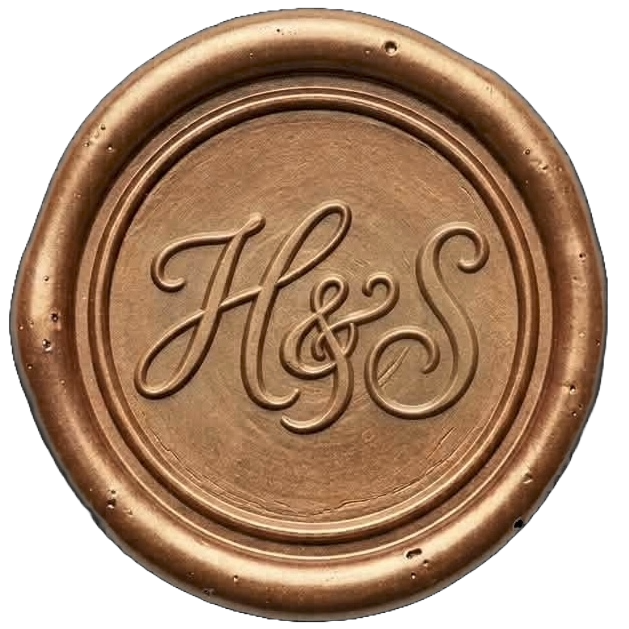
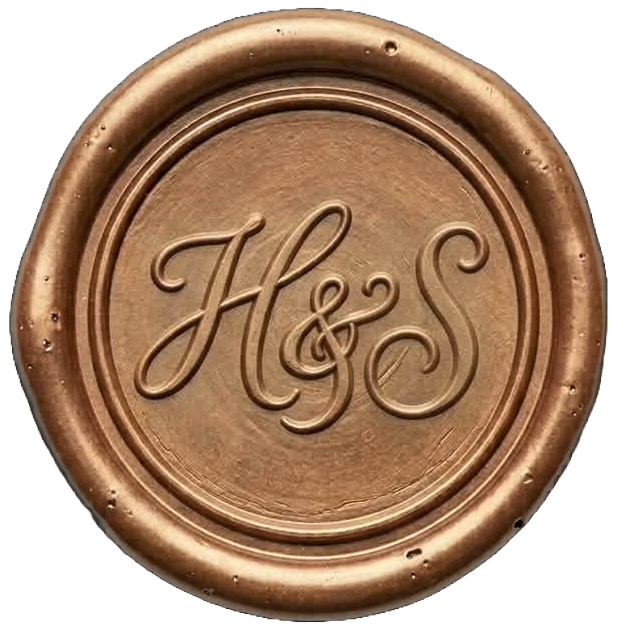
Fix seal flashing its box during slow-network load

diff --git a/src/components/guest/EnvelopeEntry.tsx b/src/components/guest/EnvelopeEntry.tsx
@@ -1,5 +1,6 @@
 "use client";
 
+import { useEffect, useRef, useState } from "react";
 import Image from "next/image";
 import { motion } from "framer-motion";
 
@@ -77,6 +78,16 @@ function PaperTexture({
 }
 
 function WaxSeal({ isOpen }: { isOpen: boolean }) {
+  // On slow networks a partially-downloaded seal can paint before its alpha
+  // channel decodes, flashing a square around the wax. Hold it invisible
+  // until fully loaded, then stamp it in. The ref guard covers cached loads
+  // that complete before hydration (onLoad would never fire).
+  const [ready, setReady] = useState(false);
+  const imgRef = useRef<HTMLImageElement>(null);
+  useEffect(() => {
+    if (imgRef.current?.complete) setReady(true);
+  }, []);
+
   return (
     <div className="absolute left-1/2 top-1/2 z-[4] -translate-x-1/2 -translate-y-1/2">
       <motion.div
@@ -87,41 +98,47 @@ function WaxSeal({ isOpen }: { isOpen: boolean }) {
         whileTap={isOpen ? undefined : { scale: 0.96 }}
         className="relative h-32 w-32 md:h-36 md:w-36"
       >
-        <Image
-          src="/rsvp-seal.png"
-          alt=""
-          fill
-          preload
-          sizes="144px"
-          // pointer-events-none: taps land on the button container, and iOS
-          // can't open its long-press "Save Image" sheet mid-tap
-          className="pointer-events-none select-none object-contain"
-          // Shadow from the PNG's own alpha (not the square container) —
-          // iOS Safari renders container-level drop-shadows as boxy halos
-          style={{ filter: "drop-shadow(0 6px 16px rgba(75,56,42,0.38))" }}
-        />
-
-        {/* Shimmer sweep, clipped by a circle inset inside the wax rim.
-            A border-radius clip works everywhere; the image mask this
-            replaced was ignored by iOS Safari, exposing the sweep's square
-            bounding box. Starts after "Tap to open" has appeared. */}
-        <div className="absolute inset-[8%] overflow-hidden rounded-full">
-          <motion.div
-            className="absolute inset-y-[-20%] w-1/3"
-            style={{
-              background:
-                "linear-gradient(105deg, rgba(255,255,255,0) 0%, rgba(251,243,231,0.45) 50%, rgba(255,255,255,0) 100%)",
-            }}
-            initial={{ x: "-180%" }}
-            animate={{ x: "420%" }}
-            transition={{
-              delay: 2.6,
-              duration: 1.2,
-              ease: "easeInOut",
-              repeat: Infinity,
-              repeatDelay: 2.4,
-            }}
+        <div
+          className={`transition-opacity duration-500 ${ready ? "opacity-100" : "opacity-0"}`}
+        >
+          <Image
+            ref={imgRef}
+            src="/rsvp-seal.png"
+            alt=""
+            fill
+            preload
+            sizes="144px"
+            onLoad={() => setReady(true)}
+            // pointer-events-none: taps land on the button container, and iOS
+            // can't open its long-press "Save Image" sheet mid-tap
+            className="pointer-events-none select-none object-contain"
+            // Shadow from the PNG's own alpha (not the square container) —
+            // iOS Safari renders container-level drop-shadows as boxy halos
+            style={{ filter: "drop-shadow(0 6px 16px rgba(75,56,42,0.38))" }}
           />
+
+          {/* Shimmer sweep, clipped by a circle inset inside the wax rim.
+              A border-radius clip works everywhere; the image mask this
+              replaced was ignored by iOS Safari, exposing the sweep's square
+              bounding box. Starts after "Tap to open" has appeared. */}
+          <div className="absolute inset-[8%] overflow-hidden rounded-full">
+            <motion.div
+              className="absolute inset-y-[-20%] w-1/3"
+              style={{
+                background:
+                  "linear-gradient(105deg, rgba(255,255,255,0) 0%, rgba(251,243,231,0.45) 50%, rgba(255,255,255,0) 100%)",
+              }}
+              initial={{ x: "-180%" }}
+              animate={{ x: "420%" }}
+              transition={{
+                delay: 2.6,
+                duration: 1.2,
+                ease: "easeInOut",
+                repeat: Infinity,
+                repeatDelay: 2.4,
+              }}
+            />
+          </div>
         </div>
       </motion.div>
     </div>